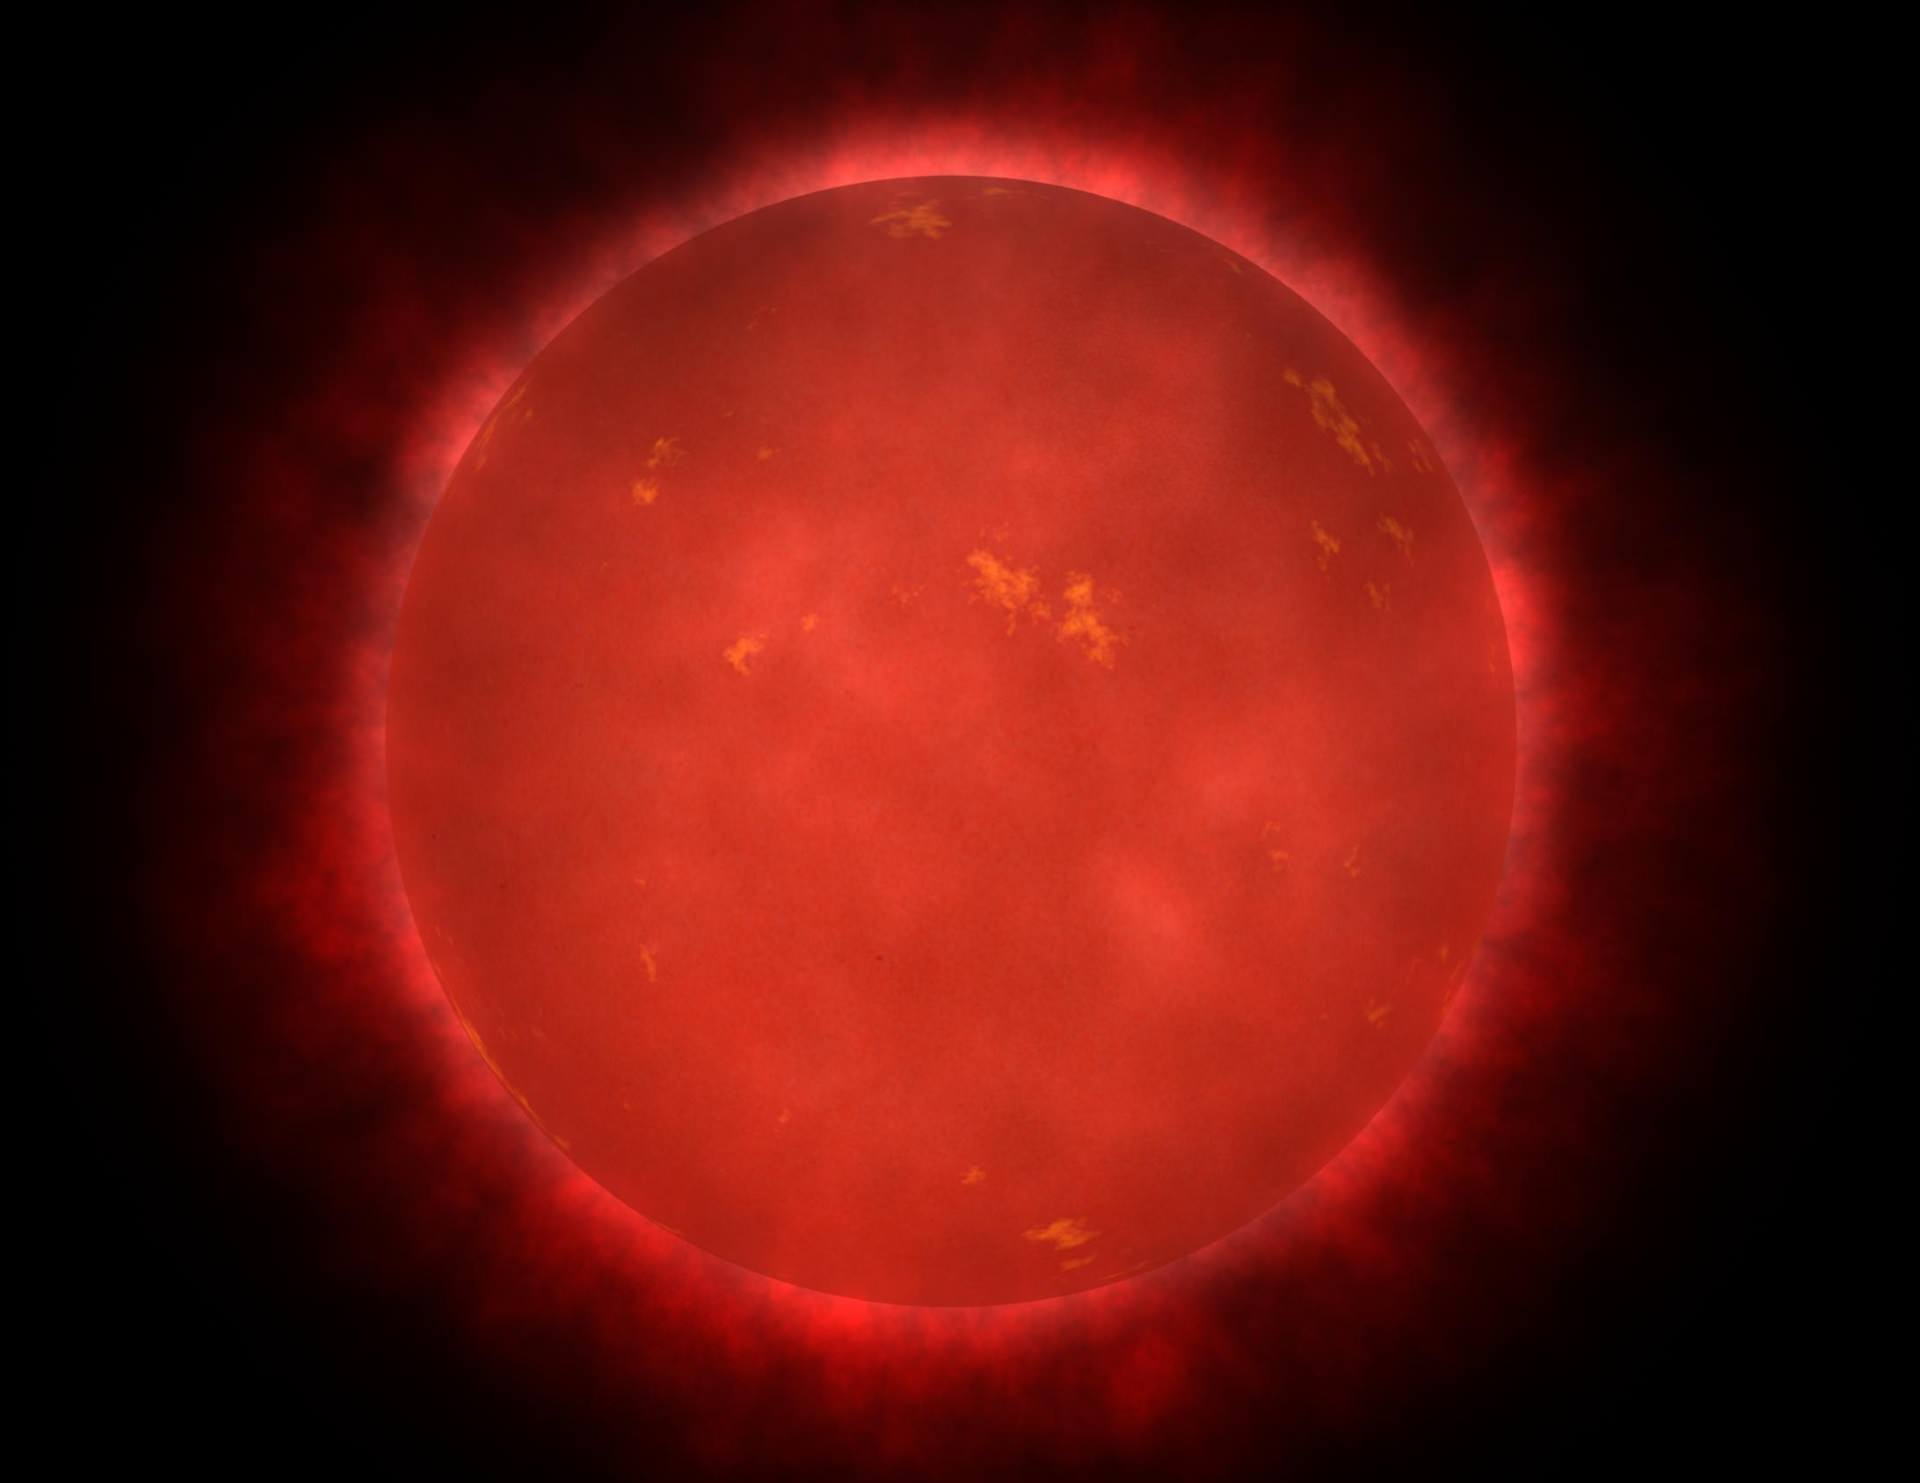
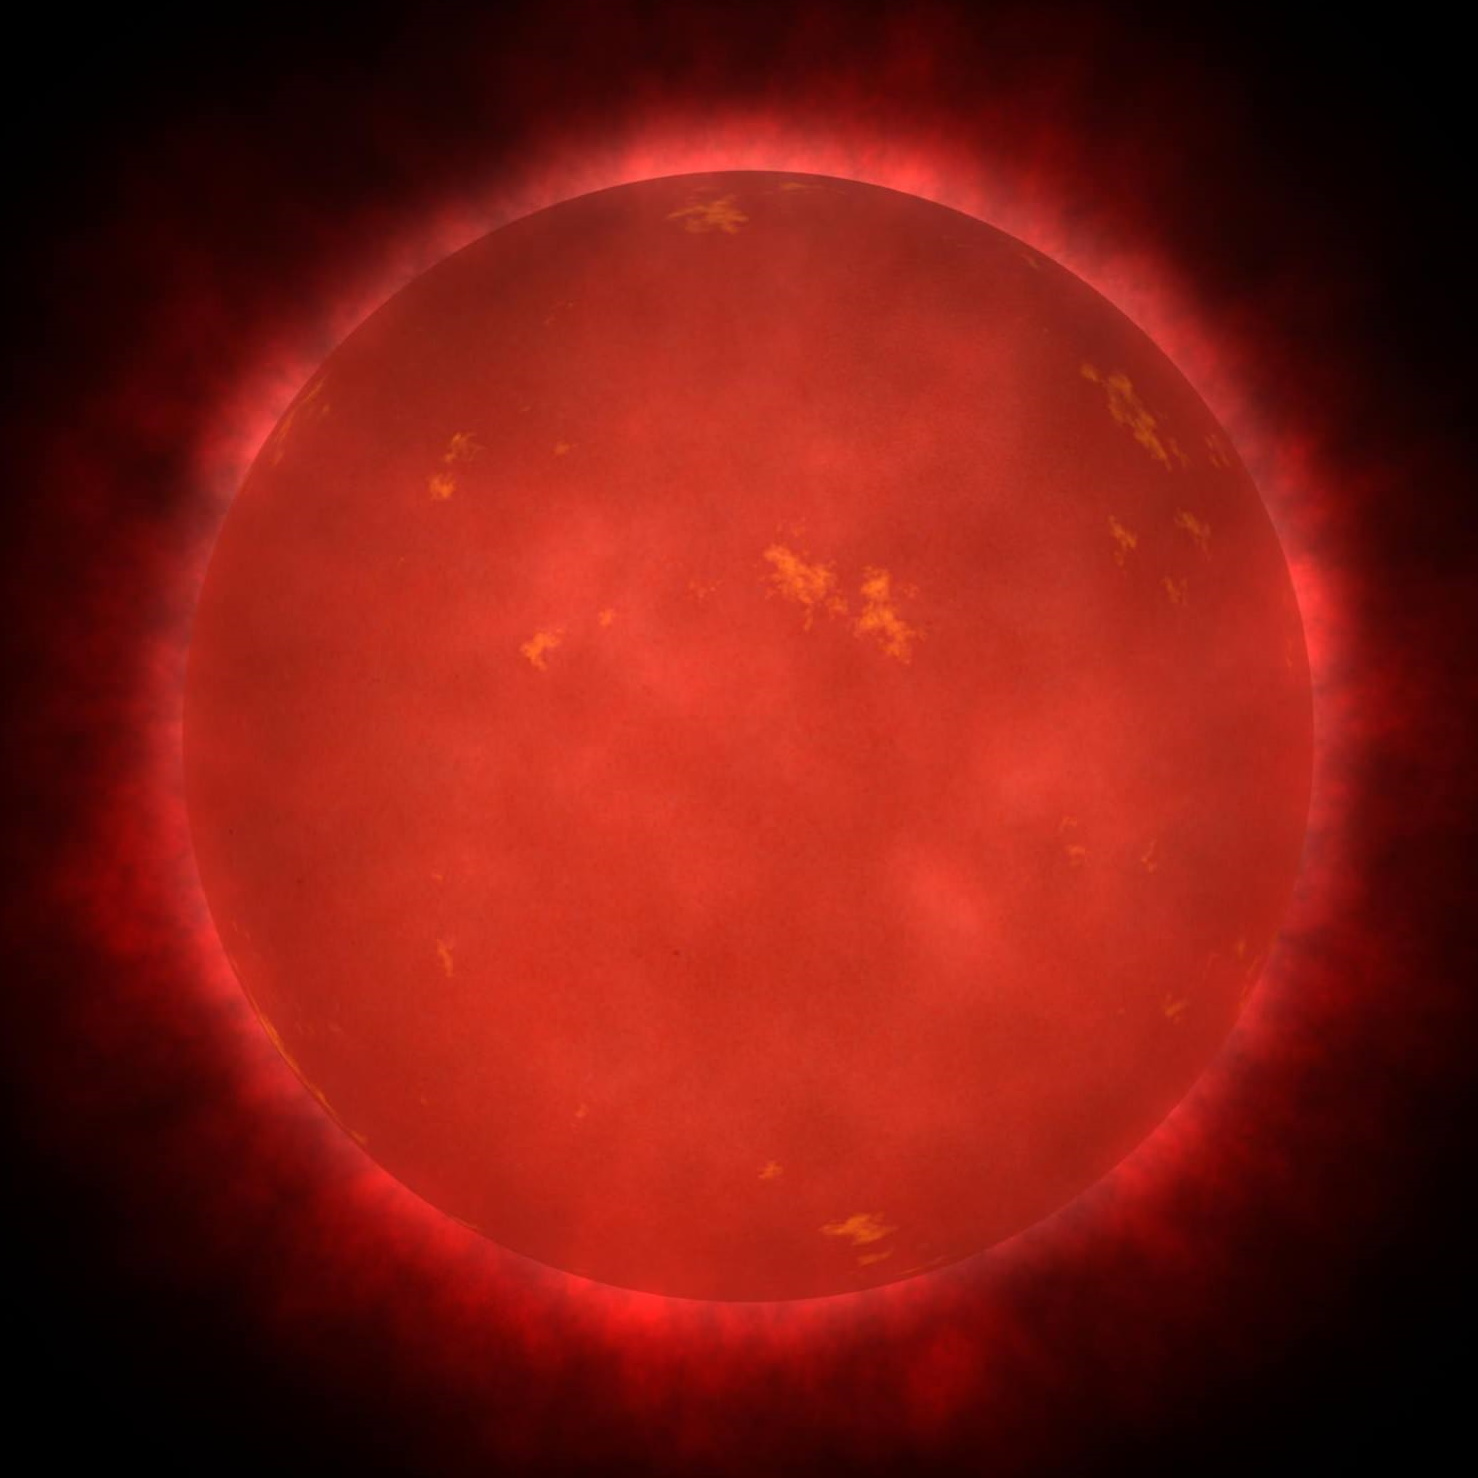
Resized the gallery images

diff --git a/html/Gallery.html b/html/Gallery.html
@@ -38,23 +38,23 @@
 
     <article id="gallery">
         <div class="Average">
-            <img src="../images/basic.png">
+            <img src="../images/basic.png" class="galleryImage">
         </div>
     
         <div class="massive">   
-            <img src="../images/massive.png">
+            <img src="../images/massive.png" class="galleryImage">
         </div>
     
         <div class="giant">
-            <img src="../images/RedGiant.jpg">
+            <img src="../images/RedGiant.jpg" class="galleryImage">
         </div>
 
         <div class="white">
-            <img src="../images/white.png">
+            <img src="../images/white.png" class="galleryImage">
         </div>
 
         <div class="black">
-            <img src="../images/black.png">
+            <img src="../images/black.png" class="galleryImage">
         </div>
     </article>
     

diff --git a/css/style.css b/css/style.css
@@ -383,6 +383,11 @@ footer {
   text-align: center;
 }
 
+.galleryImage {
+  width: 100%;
+  height: 100%;
+}
+
 #gallery {
   display: grid;
   grid-template-columns: 25% 25% 25% 25%;
